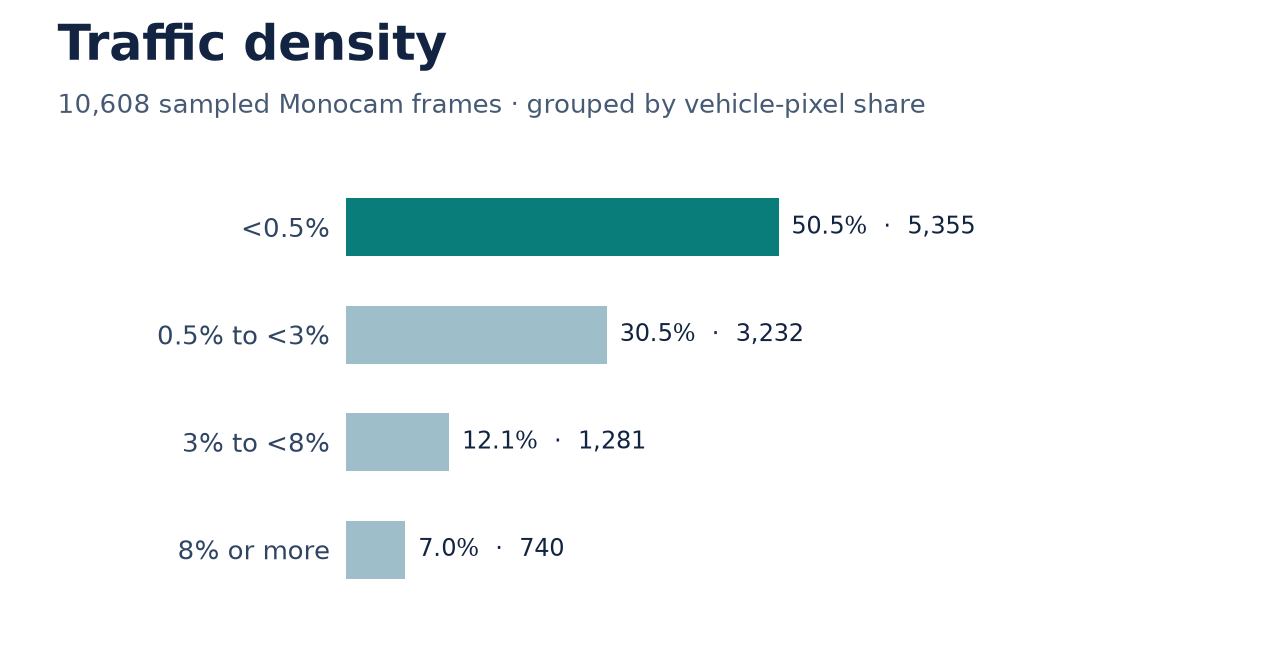
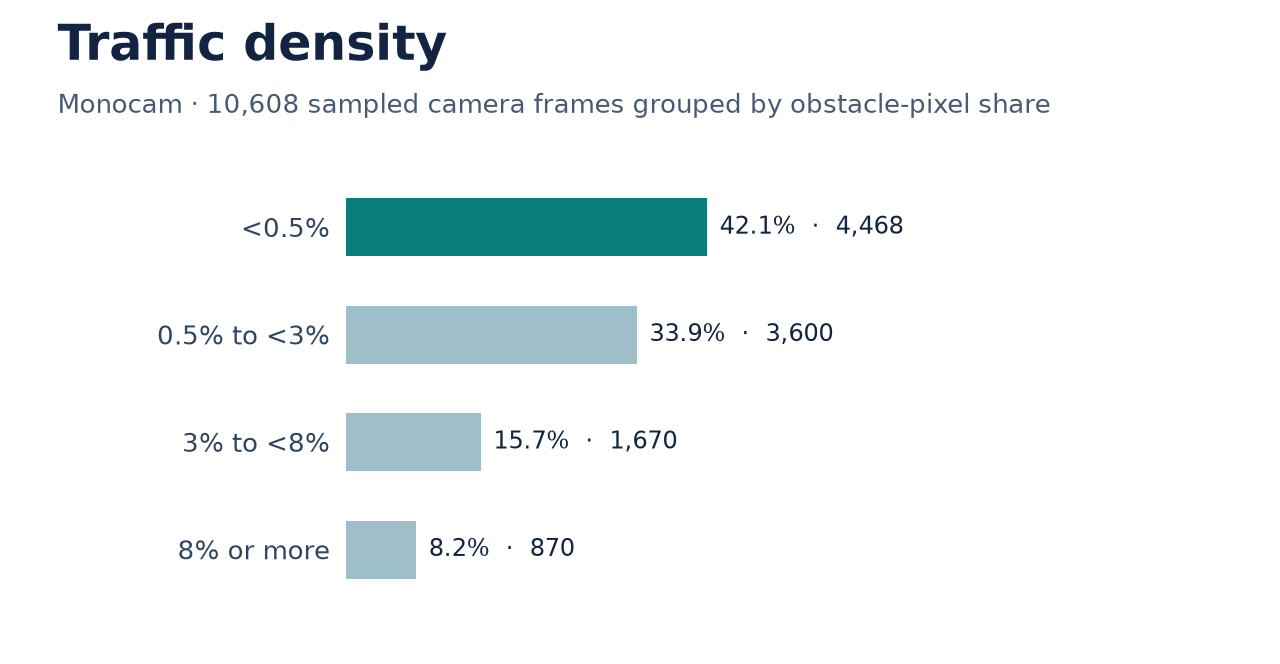
Publish obstacle-based traffic density and explain braking counts

diff --git a/index.html b/index.html
@@ -67,12 +67,12 @@
     </article>
     <article class="distribution-card" aria-labelledby="indus-ad-traffic-density">
       <h4 id="indus-ad-traffic-density">Traffic density</h4>
-      <p class="distribution-card-note">Rows group frames by the percentage of vehicle pixels. The values on the right show each group’s share and frame count.</p>
+      <p class="distribution-card-note">Traffic density estimates the share of sampled image pixels labelled as vehicles, people and riders, animals, or selected street obstacles such as barriers and bins. In 24,061 of 34,306 sampled camera frames (70.1%), visible obstacles cover at least 8% of the image.</p>
       <dl class="distribution-plot">
-        <div class="distribution-row"><dt>&lt;0.5%</dt><dd><span class="distribution-track" aria-hidden="true"><span style="--share:4.1742%"></span></span><span class="distribution-value"><strong>4.2%</strong><span>1,432</span></span></dd></div>
-        <div class="distribution-row"><dt>0.5% to &lt;3%</dt><dd><span class="distribution-track" aria-hidden="true"><span style="--share:11.9367%"></span></span><span class="distribution-value"><strong>11.9%</strong><span>4,095</span></span></dd></div>
-        <div class="distribution-row"><dt>3% to &lt;8%</dt><dd><span class="distribution-track" aria-hidden="true"><span style="--share:27.6103%"></span></span><span class="distribution-value"><strong>27.6%</strong><span>9,472</span></span></dd></div>
-        <div class="distribution-row"><dt>8% or more</dt><dd><span class="distribution-track is-highlighted" aria-hidden="true"><span style="--share:56.2788%"></span></span><span class="distribution-value"><strong>56.3%</strong><span>19,307</span></span></dd></div>
+        <div class="distribution-row"><dt>&lt;0.5%</dt><dd><span class="distribution-track" aria-hidden="true"><span style="--share:2.5039%"></span></span><span class="distribution-value"><strong>2.5%</strong><span>859</span></span></dd></div>
+        <div class="distribution-row"><dt>0.5% to &lt;3%</dt><dd><span class="distribution-track" aria-hidden="true"><span style="--share:7.4768%"></span></span><span class="distribution-value"><strong>7.5%</strong><span>2,565</span></span></dd></div>
+        <div class="distribution-row"><dt>3% to &lt;8%</dt><dd><span class="distribution-track" aria-hidden="true"><span style="--share:19.8828%"></span></span><span class="distribution-value"><strong>19.9%</strong><span>6,821</span></span></dd></div>
+        <div class="distribution-row"><dt>8% or more</dt><dd><span class="distribution-track is-highlighted" aria-hidden="true"><span style="--share:70.1364%"></span></span><span class="distribution-value"><strong>70.1%</strong><span>24,061</span></span></dd></div>
       </dl>
       <a class="distribution-download" href="assets/distribution/indus-ad-traffic-density.png">View chart image<span class="distribution-visually-hidden"> for traffic density</span></a>
     </article>
@@ -108,10 +108,10 @@
     </article>
     <article class="distribution-card" aria-labelledby="indus-ad-gnss-motion">
       <h4 id="indus-ad-gnss-motion">Vehicle motion</h4>
-      <p class="distribution-card-note">Rules applied to GNSS traces assign motion labels. Unknown motion stays visible.</p>
+      <p class="distribution-card-note">Each label describes a ten-second window. A long stop can cover several stopped windows.</p>
       <dl class="distribution-plot">
         <div class="distribution-row"><dt>Cruising</dt><dd><span class="distribution-track is-highlighted" aria-hidden="true"><span style="--share:31.7601%"></span></span><span class="distribution-value"><strong>31.8%</strong><span>9,993</span></span></dd></div>
-        <div class="distribution-row"><dt>Stopped</dt><dd><span class="distribution-track" aria-hidden="true"><span style="--share:17.3118%"></span></span><span class="distribution-value"><strong>17.3%</strong><span>5,447</span></span></dd></div>
+        <div class="distribution-row"><dt>Stopped windows</dt><dd><span class="distribution-track" aria-hidden="true"><span style="--share:17.3118%"></span></span><span class="distribution-value"><strong>17.3%</strong><span>5,447</span></span></dd></div>
         <div class="distribution-row"><dt>Accelerating</dt><dd><span class="distribution-track" aria-hidden="true"><span style="--share:10.7774%"></span></span><span class="distribution-value"><strong>10.8%</strong><span>3,391</span></span></dd></div>
         <div class="distribution-row"><dt>Slowing down</dt><dd><span class="distribution-track" aria-hidden="true"><span style="--share:10.2625%"></span></span><span class="distribution-value"><strong>10.3%</strong><span>3,229</span></span></dd></div>
         <div class="distribution-row"><dt>Unknown motion</dt><dd><span class="distribution-track is-unknown" aria-hidden="true"><span style="--share:23.0072%"></span></span><span class="distribution-value"><strong>23.0%</strong><span>7,239</span></span></dd></div>
@@ -119,7 +119,7 @@
       <details class="distribution-details"><summary>Additional motion categories</summary>
       <dl class="distribution-plot">
         <div class="distribution-row"><dt>Other motion</dt><dd><span class="distribution-track" aria-hidden="true"><span style="--share:2.8445%"></span></span><span class="distribution-value"><strong>2.8%</strong><span>895</span></span></dd></div>
-        <div class="distribution-row"><dt>Stopping</dt><dd><span class="distribution-track" aria-hidden="true"><span style="--share:2.2534%"></span></span><span class="distribution-value"><strong>2.3%</strong><span>709</span></span></dd></div>
+        <div class="distribution-row"><dt>Stopping windows</dt><dd><span class="distribution-track" aria-hidden="true"><span style="--share:2.2534%"></span></span><span class="distribution-value"><strong>2.3%</strong><span>709</span></span></dd></div>
         <div class="distribution-row"><dt>Starting</dt><dd><span class="distribution-track" aria-hidden="true"><span style="--share:1.6686%"></span></span><span class="distribution-value"><strong>1.7%</strong><span>525</span></span></dd></div>
         <div class="distribution-row"><dt>Left turn</dt><dd><span class="distribution-track" aria-hidden="true"><span style="--share:0.0604%"></span></span><span class="distribution-value"><strong>0.1%</strong><span>19</span></span></dd></div>
         <div class="distribution-row"><dt>Right turn</dt><dd><span class="distribution-track" aria-hidden="true"><span style="--share:0.0509%"></span></span><span class="distribution-value"><strong>0.1%</strong><span>16</span></span></dd></div>
@@ -133,9 +133,9 @@
   </section>
 
   <article id="multicam-stop-candidates" class="distribution-card" aria-labelledby="multicam-stops-heading">
-    <h4 id="multicam-stops-heading">Stop candidates</h4>
-    <p class="distribution-card-note">INDUS-AD has <strong>1,670 stop candidates across 805 recordings</strong>, including 101 sudden-stop candidates. The screen used 69.03 hours of speed intervals from 1,441 of 1,469 recordings.</p>
-    <p class="distribution-card-note">The broader rule captures slower stops. The vehicle must reach at least 7.2 km/h in the five seconds before it stays near stationary for a second.</p>
+    <h4 id="multicam-stops-heading">Braking and sudden stops</h4>
+    <p class="distribution-card-note">INDUS-AD has <strong>1,670 braking-to-stop candidates across 805 recordings</strong>, including 101 sudden stops. The screen used 69.03 hours of speed intervals from 1,441 of 1,469 recordings.</p>
+    <p class="distribution-card-note">The 5,447 stopped windows describe time spent near stationary. Each braking-to-stop event counts one observed transition to near standstill. An event requires a speed of at least 7.2 km/h in the previous five seconds and at least one second near standstill. The approach speed has no upper limit.</p>
     <a class="distribution-download" href="https://huggingface.co/datasets/gagandeepreehal/indus-ad#traffic-density-and-stop-candidates">Read the method and coverage</a>
   </article>
 
@@ -145,18 +145,18 @@
     <div class="distribution-grid">
     <article class="distribution-card" aria-labelledby="monocam-traffic-density">
       <h4 id="monocam-traffic-density">Traffic density</h4>
-      <p class="distribution-card-note">In 80.9% of sampled frames, vehicles account for less than 3% of image pixels according to the camera labels.</p>
+      <p class="distribution-card-note">In 8,068 of 10,608 sampled front-camera frames (76.1%), visible obstacles cover less than 3% of the image. The same obstacle classes and thresholds apply.</p>
       <dl class="distribution-plot">
-        <div class="distribution-row"><dt>&lt;0.5%</dt><dd><span class="distribution-track is-highlighted" aria-hidden="true"><span style="--share:50.4808%"></span></span><span class="distribution-value"><strong>50.5%</strong><span>5,355</span></span></dd></div>
-        <div class="distribution-row"><dt>0.5% to &lt;3%</dt><dd><span class="distribution-track" aria-hidden="true"><span style="--share:30.4676%"></span></span><span class="distribution-value"><strong>30.5%</strong><span>3,232</span></span></dd></div>
-        <div class="distribution-row"><dt>3% to &lt;8%</dt><dd><span class="distribution-track" aria-hidden="true"><span style="--share:12.0758%"></span></span><span class="distribution-value"><strong>12.1%</strong><span>1,281</span></span></dd></div>
-        <div class="distribution-row"><dt>8% or more</dt><dd><span class="distribution-track" aria-hidden="true"><span style="--share:6.9759%"></span></span><span class="distribution-value"><strong>7.0%</strong><span>740</span></span></dd></div>
+        <div class="distribution-row"><dt>&lt;0.5%</dt><dd><span class="distribution-track is-highlighted" aria-hidden="true"><span style="--share:42.1192%"></span></span><span class="distribution-value"><strong>42.1%</strong><span>4,468</span></span></dd></div>
+        <div class="distribution-row"><dt>0.5% to &lt;3%</dt><dd><span class="distribution-track" aria-hidden="true"><span style="--share:33.9367%"></span></span><span class="distribution-value"><strong>33.9%</strong><span>3,600</span></span></dd></div>
+        <div class="distribution-row"><dt>3% to &lt;8%</dt><dd><span class="distribution-track" aria-hidden="true"><span style="--share:15.7428%"></span></span><span class="distribution-value"><strong>15.7%</strong><span>1,670</span></span></dd></div>
+        <div class="distribution-row"><dt>8% or more</dt><dd><span class="distribution-track" aria-hidden="true"><span style="--share:8.2014%"></span></span><span class="distribution-value"><strong>8.2%</strong><span>870</span></span></dd></div>
       </dl>
       <a class="distribution-download" href="assets/distribution/indus-ad-monocam-traffic-density.png">View chart image<span class="distribution-visually-hidden"> for Monocam traffic density</span></a>
     </article>
     <article class="distribution-card" aria-labelledby="monocam-stops">
-      <h4 id="monocam-stops">Stop candidates</h4>
-      <p class="distribution-card-note">Monocam has <strong>12 stop candidates across 8 recordings</strong>, with zero meeting the sudden-stop rule. The screen used 1.92 hours of speed intervals from 84 of 96 recordings. The other 12 had no GNSS rows marked valid.</p>
+      <h4 id="monocam-stops">Braking and sudden stops</h4>
+      <p class="distribution-card-note">Monocam has <strong>12 braking-to-stop candidates across 8 recordings</strong>, with zero sudden stops. The screen used 1.92 hours of speed intervals from 84 of 96 recordings. The other 12 had no GNSS rows marked valid.</p>
       <a class="distribution-download" href="https://huggingface.co/datasets/gagandeepreehal/indus-ad-monocam#traffic-density-and-stop-candidates">Read the method and coverage</a>
     </article>
     </div>
